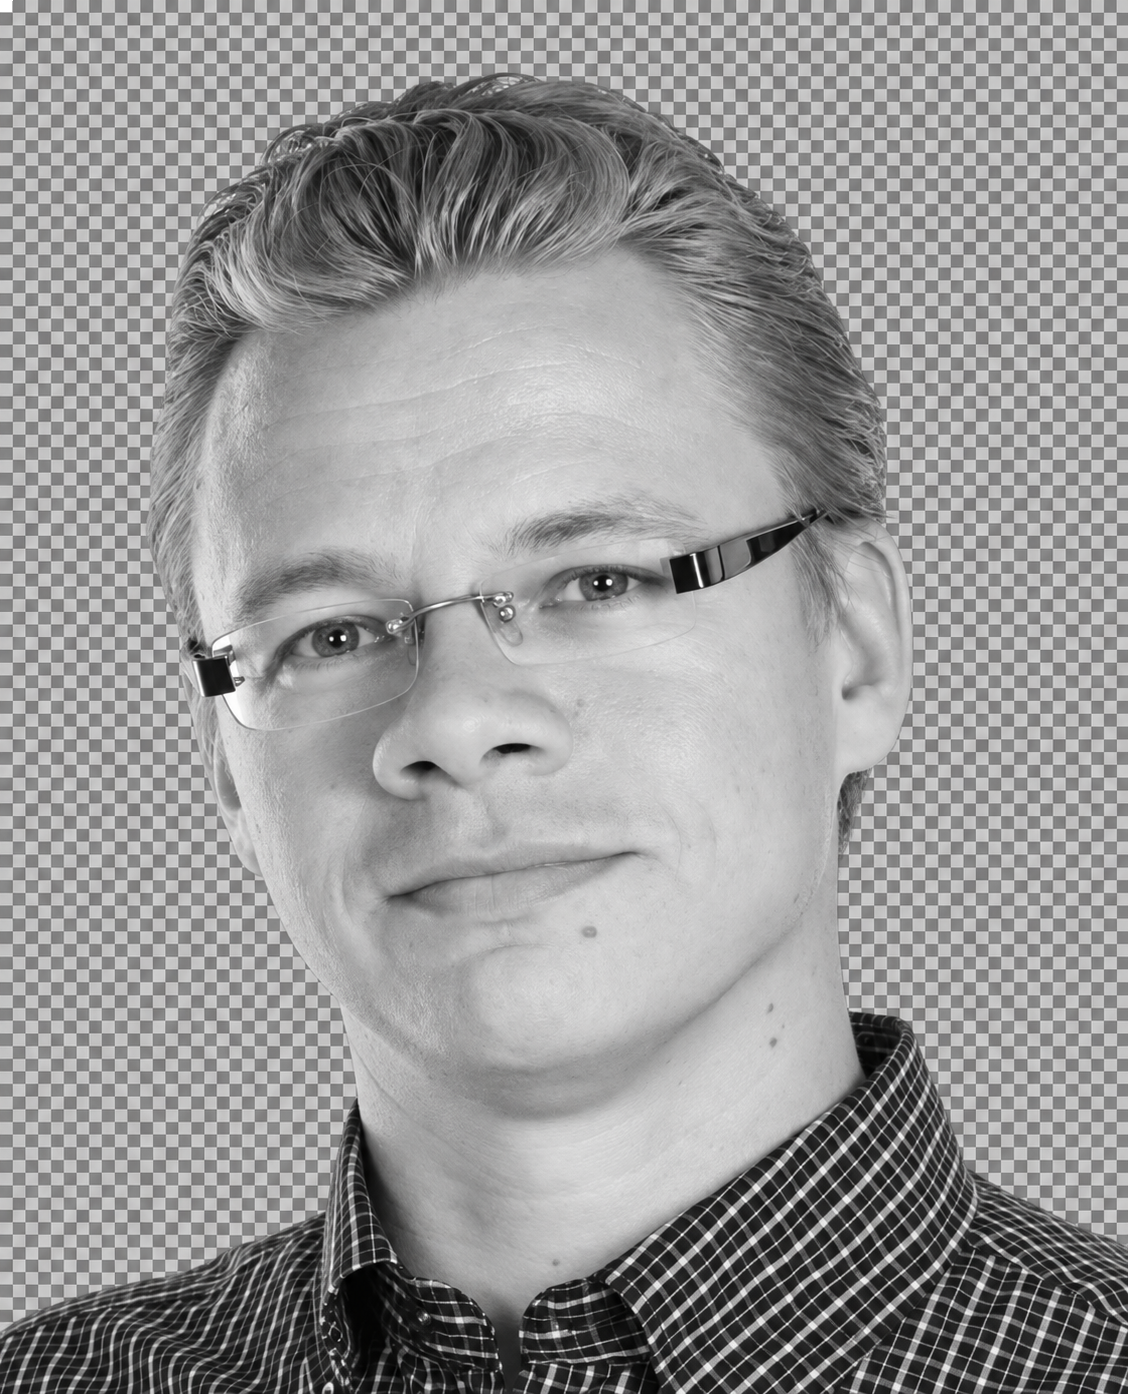
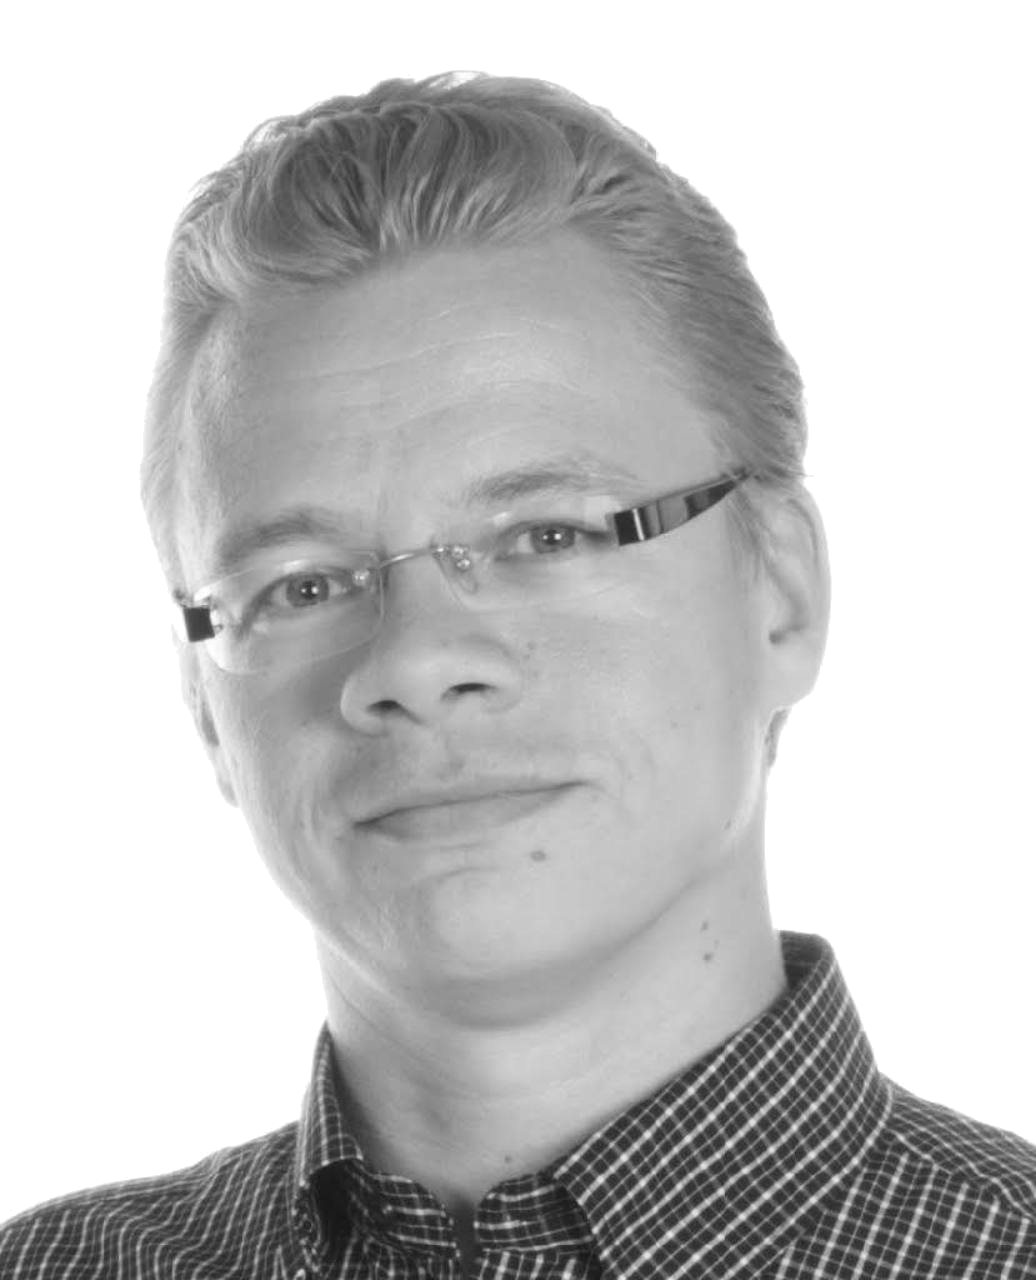
Korjaa yhteyskuvan alpha ja sähköpostin rivitys

diff --git a/styles.css b/styles.css
@@ -82,7 +82,7 @@ h1 span, h2 em { font-style: normal; color: var(--red); }
 .contact-portrait { width: 132px; height: 166px; object-fit: contain; object-position: center bottom; flex: 0 0 auto; }
 .panel-label { margin: 0 0 20px; color: #69747a; font-size: 12px; font-weight: 800; letter-spacing: .12em; text-transform: uppercase; }
 .contact-name { margin: 0 0 8px; color: var(--charcoal); font-size: 24px; font-weight: 800; }
-.contact-link { display: block; margin: 0 0 11px; color: var(--charcoal); font-size: 20px; font-weight: 700; text-decoration: none; }
+.contact-link { display: block; margin: 0 0 11px; color: var(--charcoal); font-size: 20px; font-weight: 700; text-decoration: none; overflow-wrap: anywhere; word-break: break-word; }
 .contact-link:hover { color: var(--red); }
 .contact-placeholder { margin: 0; color: #59656b; font-size: 18px; }
 .site-footer { padding: 30px 0; background: var(--charcoal); color: #c5cccf; }
